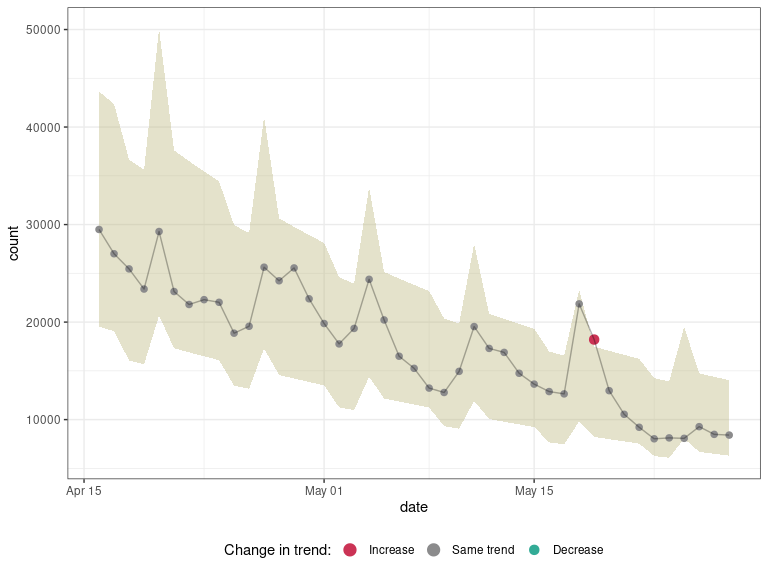
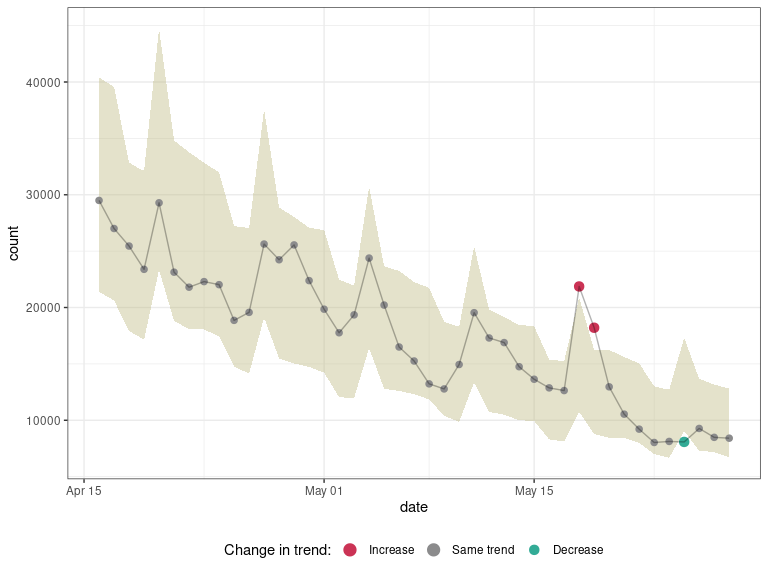
can now simulate prediction intervals via the bootstrap branch of trending

diff --git a/README.md b/README.md
@@ -119,7 +119,7 @@ counts_overall <- pathways_recent %>%
 #> `summarise()` has grouped output by 'date', 'day'. You can override using the `.groups` argument.
 
 # results with automated detection of 'k'
-res <- asmodee(counts_overall, models, method = evaluate_aic)
+res <- asmodee(counts_overall, models, method = evaluate_aic, simulate_pi = TRUE)
 res
 #> $k
 #> [1] 0
@@ -139,53 +139,132 @@ res
 #> Residual Deviance: 43.18     AIC: 806.4
 #> 
 #> $predict
-#> function (newdata, alpha = 0.05, add_pi = TRUE, uncertain = TRUE) 
+#> function (newdata, alpha = 0.05, add_pi = TRUE, simulate_pi = FALSE, 
+#>     uncertain = TRUE) 
 #> {
 #>     if (missing(newdata)) {
 #>         newdata <- data[all.vars(formula(model))]
 #>     }
 #>     result <- add_confidence_interval(model, newdata, alpha)
 #>     if (add_pi) {
-#>         result <- add_prediction_interval(model, result, alpha, 
-#>             uncertain)
+#>         if (simulate_pi) {
+#>             result <- add_prediction_interval(model, result, 
+#>                 alpha, simulate_pi, uncertain)
+#>         }
+#>         else {
+#>             result <- add_prediction_interval(model, result, 
+#>                 alpha, simulate_pi, uncertain)
+#>         }
 #>     }
 #>     result
 #> }
-#> <bytecode: 0x55e0cc645570>
-#> <environment: 0x55e0d230a078>
+#> <bytecode: 0x564280c3ddf0>
+#> <environment: 0x564286959b30>
 #> 
 #> attr(,"class")
 #> [1] "trending_model_fit" "list"              
 #> 
 #> $n_outliers
-#> [1] 1
+#> [1] 3
 #> 
 #> $n_outliers_train
-#> [1] 1
+#> [1] 3
 #> 
 #> $n_outliers_recent
 #> [1] 0
 #> 
 #> $p_value
-#> [1] 0.6404551
+#> [1] 0.1665987
 #> 
 #> $results
-#> # A tibble: 43 x 11
-#> # Groups:   date, day [43]
-#>    date         day weekday count estimate lower_ci upper_ci lower_pi upper_pi
-#>    <date>     <int> <fct>   <int>    <dbl>    <dbl>    <dbl>    <dbl>    <dbl>
-#>  1 2020-04-16    29 rest_o… 29497   29866.   26976.   33066.    19529    43643
-#>  2 2020-04-17    30 rest_o… 27007   29072.   26337.   32091.    19067    42355
-#>  3 2020-04-18    31 weekend 25453   24835.   22200.   27783.    16071    36671
-#>  4 2020-04-19    32 weekend 23387   24175.   21659.   26983.    15679    35615
-#>  5 2020-04-20    33 monday  29287   32913.   28548.   37944.    20668    50079
-#>  6 2020-04-21    34 rest_o… 23134   26101.   23915.   28486.    17313    37599
-#>  7 2020-04-22    35 rest_o… 21803   25407.   23341.   27656.    16897    36502
-#>  8 2020-04-23    36 rest_o… 22298   24731.   22779.   26851.    16490    35441
-#>  9 2020-04-24    37 rest_o… 22027   24074.   22227.   26073.    16091    34414
-#> 10 2020-04-25    38 weekend 18861   20565.   18640.   22689.    13493    29949
-#> # … with 33 more rows, and 2 more variables: outlier <lgl>,
-#> #   classification <fct>
+#>          date day      weekday count  estimate  lower_ci upper_ci lower_pi
+#> 1  2020-04-16  29 rest_of_week 29497 29866.112 26975.633 33066.31    21387
+#> 2  2020-04-17  30 rest_of_week 27007 29071.949 26337.005 32090.90    20622
+#> 3  2020-04-18  31      weekend 25453 24835.238 22200.222 27783.01    17925
+#> 4  2020-04-19  32      weekend 23387 24174.851 21658.947 26983.00    17141
+#> 5  2020-04-20  33       monday 29287 32912.569 28548.286 37944.04    23354
+#> 6  2020-04-21  34 rest_of_week 23134 26100.933 23915.207 28486.42    18801
+#> 7  2020-04-22  35 rest_of_week 21803 25406.890 23341.012 27655.62    18093
+#> 8  2020-04-23  36 rest_of_week 22298 24731.302 22778.559 26851.45    18050
+#> 9  2020-04-24  37 rest_of_week 22027 24073.678 22227.471 26073.23    17434
+#> 10 2020-04-25  38      weekend 18861 20565.374 18640.176 22689.41    14767
+#> 11 2020-04-26  39      weekend 19569 20018.526 18172.629 22051.92    14138
+#> 12 2020-04-27  40       monday 25628 27253.989 23884.320 31099.06    19113
+#> 13 2020-04-28  41 rest_of_week 24236 21613.462 20129.447 23206.88    15486
+#> 14 2020-04-29  42 rest_of_week 25552 21038.744 19629.754 22548.87    15040
+#> 15 2020-04-30  43 rest_of_week 22387 20479.308 19139.321 21913.11    14733
+#> 16 2020-05-01  44 rest_of_week 19852 19934.748 18657.846 21299.04    14223
+#> 17 2020-05-02  45      weekend 17761 17029.618 15559.416 18638.74    12052
+#> 18 2020-05-03  46      weekend 19349 16576.788 15154.130 18133.00    11961
+#> 19 2020-05-04  47       monday 24385 22568.275 19886.020 25612.32    16403
+#> 20 2020-05-05  48 rest_of_week 20218 17897.510 16816.496 19048.02    12797
+#> 21 2020-05-06  49 rest_of_week 16498 17421.602 16376.348 18533.57    12605
+#> 22 2020-05-07  50 rest_of_week 15257 16958.349 15944.040 18037.18    12315
+#> 23 2020-05-08  51 rest_of_week 13230 16507.414 15519.528 17558.18    11847
+#> 24 2020-05-09  52      weekend 12780 14101.756 12891.373 15425.78    10402
+#> 25 2020-05-10  53      weekend 14946 13726.780 12541.540 15024.03     9868
+#> 26 2020-05-11  54       monday 19542 18688.165 16466.954 21208.99    13367
+#> 27 2020-05-12  55 rest_of_week 17299 14820.434 13899.746 15802.11    10745
+#> 28 2020-05-13  56 rest_of_week 16891 14426.347 13514.648 15399.55    10488
+#> 29 2020-05-14  57 rest_of_week 14750 14042.740 13137.637 15010.20    10008
+#> 30 2020-05-15  58 rest_of_week 13638 13669.333 12768.780 14633.40     9936
+#> 31 2020-05-16  59      weekend 12874 11677.275 10600.167 12863.83     8308
+#> 32 2020-05-17  60      weekend 12635 11366.767 10302.312 12541.20     8117
+#> 33 2020-05-18  61       monday 21868 15475.153 13561.555 17658.77    10744
+#> 34 2020-05-19  62 rest_of_week 18207 12272.392 11375.758 13239.70     8768
+#> 35 2020-05-20  63 rest_of_week 12966 11946.060 11048.148 12916.95     8444
+#> 36 2020-05-21  64 rest_of_week 10543 11628.405 10728.741 12603.51     8448
+#> 37 2020-05-22  65 rest_of_week  9212 11319.197 10417.477 12298.97     7983
+#> 38 2020-05-23  66      weekend  8030  9669.629  8662.868 10793.39     7004
+#> 39 2020-05-24  67      weekend  8123  9412.506  8413.406 10530.25     6676
+#> 40 2020-05-25  68       monday  8079 12814.547 11114.981 14773.99     9039
+#> 41 2020-05-26  69 rest_of_week  9275 10162.428  9252.027 11162.41     7298
+#> 42 2020-05-27  70 rest_of_week  8486  9892.202  8979.999 10897.07     7180
+#> 43 2020-05-28  71 rest_of_week  8411  9629.161  8715.443 10638.67     6713
+#>    upper_pi outlier classification
+#> 1     40395   FALSE         normal
+#> 2     39562   FALSE         normal
+#> 3     32848   FALSE         normal
+#> 4     32085   FALSE         normal
+#> 5     44723   FALSE         normal
+#> 6     34805   FALSE         normal
+#> 7     33776   FALSE         normal
+#> 8     32834   FALSE         normal
+#> 9     31986   FALSE         normal
+#> 10    27228   FALSE         normal
+#> 11    27043   FALSE         normal
+#> 12    37563   FALSE         normal
+#> 13    28870   FALSE         normal
+#> 14    28030   FALSE         normal
+#> 15    27078   FALSE         normal
+#> 16    26863   FALSE         normal
+#> 17    22464   FALSE         normal
+#> 18    21948   FALSE         normal
+#> 19    30715   FALSE         normal
+#> 20    23651   FALSE         normal
+#> 21    23245   FALSE         normal
+#> 22    22257   FALSE         normal
+#> 23    21742   FALSE         normal
+#> 24    18730   FALSE         normal
+#> 25    18274   FALSE         normal
+#> 26    25428   FALSE         normal
+#> 27    19810   FALSE         normal
+#> 28    19134   FALSE         normal
+#> 29    18463   FALSE         normal
+#> 30    18331   FALSE         normal
+#> 31    15388   FALSE         normal
+#> 32    15243   FALSE         normal
+#> 33    20871    TRUE       increase
+#> 34    16244    TRUE       increase
+#> 35    16234   FALSE         normal
+#> 36    15615   FALSE         normal
+#> 37    15050   FALSE         normal
+#> 38    13004   FALSE         normal
+#> 39    12702   FALSE         normal
+#> 40    17313    TRUE       decrease
+#> 41    13677   FALSE         normal
+#> 42    13171   FALSE         normal
+#> 43    12804   FALSE         normal
 #> 
 #> attr(,"class")
 #> [1] "trendbreaker" "list"
